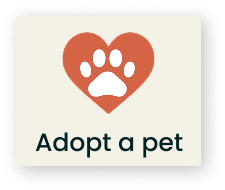
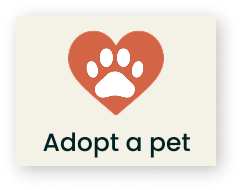
update and add

diff --git a/user.html b/user.html
@@ -220,12 +220,20 @@
                 <img src="image/Adopt.png" alt="Adopt a pet">
             </a>
 
-            <a class="btn-card" href="products.html">
-                <img src="image/Products.png" alt="Find products">
+            <a class="btn-card" href="donate.html">
+                <img src="image/Donate.png" alt="Donate now">
             </a>
 
             <a class="btn-card" href="facilities.html">
                 <img src="image/Facilities.png" alt="Find facilities">
+            </a>
+
+            <a class="btn-card" href="products.html">
+                <img src="image/Products.png" alt="Find products">
+            </a>
+
+            <a class="btn-card" href="missing.html">
+                <img src="image/Missing.png" alt="Find missing animals">
             </a>
         </div>
 
